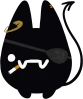
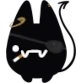
Critters improved

diff --git a/src/peggyx-recap-2024/index.html b/src/peggyx-recap-2024/index.html
@@ -125,10 +125,7 @@
                 </div>
             </section>
 
-            <div class="fullpage width-content critter-container">
-                <img src="critters/DaVince.webp" alt="" class="critter-1" />
-                <img src="critters/Jerky.webp" alt="" class="critter-2" />
-
+            <div class="fullpage width-content">
                 <header class="width-100 center">
                     <h1 class="bloody">Honorary mentions</h1>
                     <h2>Here's some more cool stuff that happened throughout the year!</h2>
@@ -231,8 +228,9 @@
 
             <section class="width-content center fullpage">
                 <h1 class="bloody">Thanks, Peggy!</h1>
-                <h2>Your streams have been very entertaining this year! Let's enjoy the next one just as much as we've enjoyed this one!</h2>
+                <h2>Your streams have been very entertaining this year! Let's enjoy the next one just as much as we've all enjoyed this one!</h2>
             </section>
+            <section class="critter-container width-75"></section>
         </div>
 
         <footer class="center">
@@ -266,16 +264,17 @@
             document.querySelector(".cm").textContent = randomHeight;
 
             // Generate critters
-            for (let i = 1; i <= 20; i++) {
+            const sowCount = 22;
+            for (let i = 1; i <= sowCount; i++) {
                 const critter = document.createElement("img");
                 critter.className = "critter";
                 critter.src = `./critters/${i}.webp`;
 
-                const randomX = `${-40 + i * 8}%`;
-                critter.style.left = randomX;
-                critter.style.bottom = `-${40 + Math.random() * 60}px`;
+                critter.style.left = `${(i - 1) * (100 / sowCount)}%`;
+                critter.style.bottom = `${40 + Math.random() * 60}px`;
+                critter.style.width = `${(100 / sowCount) * 2}%`;
 
-                document.querySelector(".critter-container").prepend(critter);
+                document.querySelector(".critter-container").append(critter);
             }
         </script>
     </body>

diff --git a/src/peggyx-recap-2024/style.css b/src/peggyx-recap-2024/style.css
@@ -81,6 +81,7 @@ body {
     background: radial-gradient(var(--bg-color-dark), var(--bg-color-darkest)) fixed;
     color: var(--text-color);
     margin: 0;
+    overflow-x: hidden;
 }
 
 .grid {
@@ -289,16 +290,12 @@ img.emote {
 
 .critter-container {
     position: relative;
+    margin-top: -5rem;
     margin-bottom: 5rem;
 }
-[class^="critter"] {
+img.critter {
     position: absolute;
-}
-.critter-1 {
-    left: -5%;
-}
-.critter-2 {
-    right: -5%;
+    max-width: 83px;
 }
 
 /* Mobile shit */
